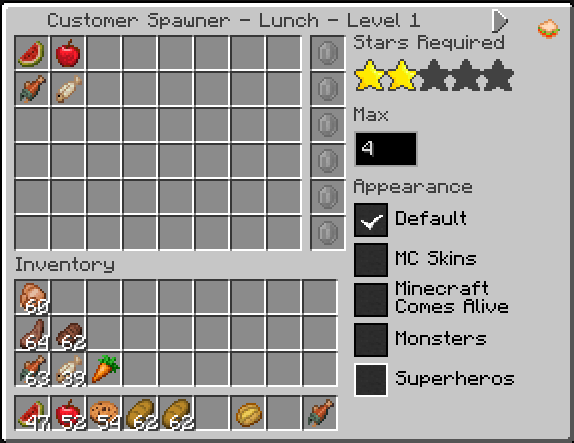
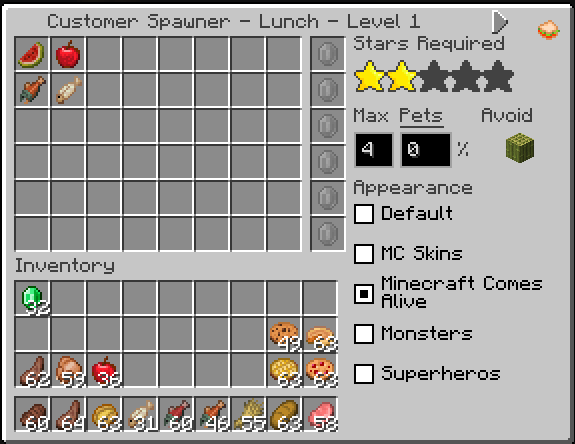
Added screenshots and documentation and bumped version to 1.10

diff --git a/README.md b/README.md
@@ -455,6 +455,12 @@ registered item as food. Customers with pets get one extra trade for their pet's
 That extra trade asks for 1 of the pet food item and uses the item in the upper-right
 slot of the Pets panel as its payment. Leave that slot empty to pay one emerald.
 
+![pets1.png](screenshots/pets1.png)![pets2.png](screenshots/pets2.png)
+
+Pets can even be additional animals from mods like Animal Garden:
+
+![pets-mods1.png](screenshots/pets-mods1.png)![pets-mods2.png](screenshots/pets-mods2.png)
+
 Pets disappear when their customer leaves, dies, or is no longer tracked by the spawner.
 When a player gives the customer the pet's food, the pet shows heart particles.
 
@@ -462,6 +468,8 @@ Open the Customer Spawner interface and use the **Pets** percentage setting to c
 how often spawned customers have pets. The value is set per spawner level. `0%` means
 customers from that level never have pets, and `100%` means every customer from that
 level tries to have a pet.
+
+![pets-settings.png](screenshots/pets-settings.png)
 
 Click the underlined **Pets** label in the Customer Spawner interface to open the pet
 type list for the selected level. Each discovered pet type has a checkbox. By default,
